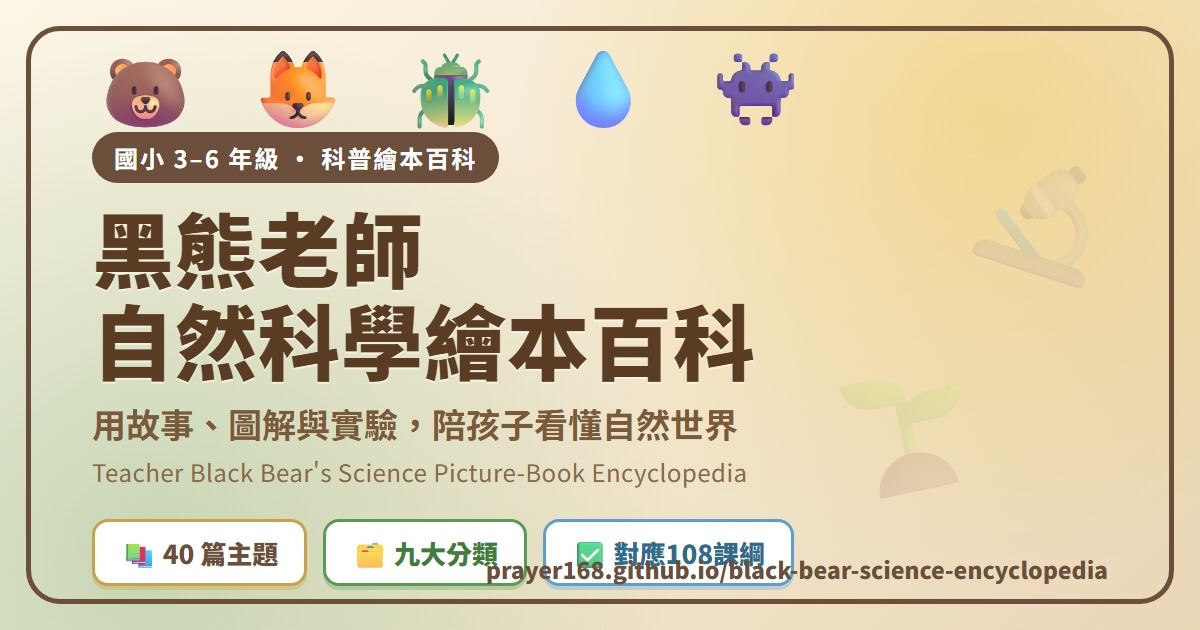
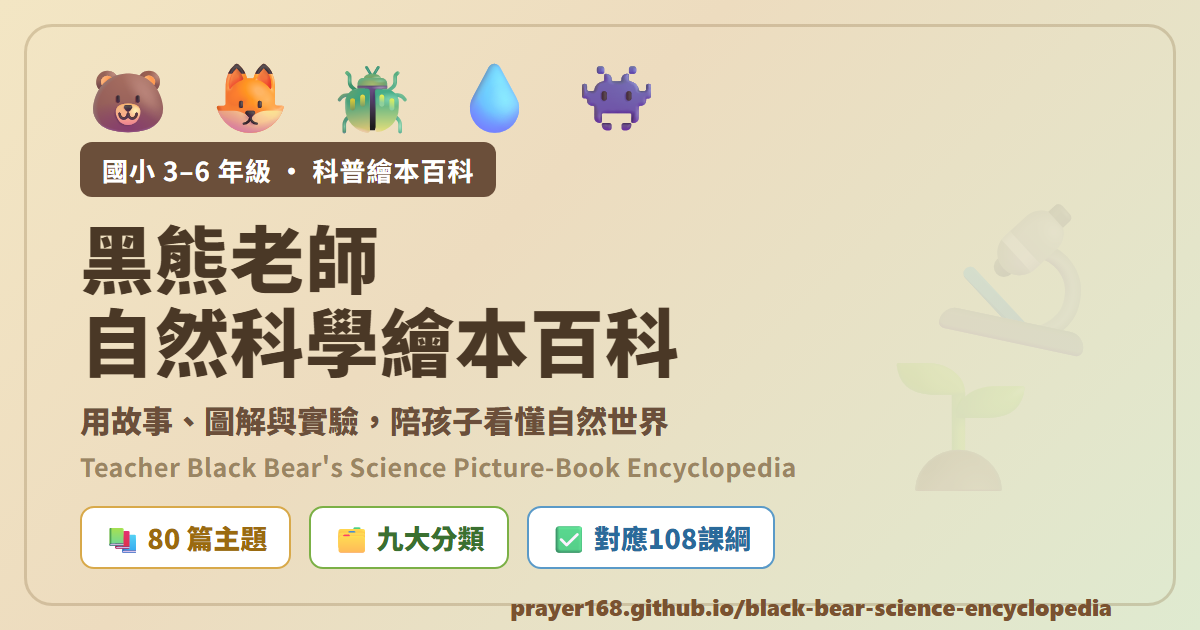
更新臉書宣傳文與 og 縮圖：全站 80/80 完成（40→80 篇）

diff --git a/share/facebook-post.html b/share/facebook-post.html
@@ -70,11 +70,11 @@
         <span class="tag">中文</span>
         <button class="copy-one small" data-target="zh">複製</button>
       </div>
-      <div id="zh" class="post">🐻📚 誰說自然科學一定要死背？讓黑熊老師用「繪本＋實驗」，把整個大自然讀成故事！
+      <div id="zh" class="post">🐻📚 80 篇全部完工！誰說自然科學一定要死背？讓黑熊老師用「繪本＋實驗」，把整個大自然讀成故事！
 
-我做了一套免費的《黑熊老師自然科學繪本百科》——
-國小三～六年級、40 篇主題、九大分類一次收藏，
-每一篇都是一個小故事，翻開就想一直往下看！📖✨
+我把《黑熊老師自然科學繪本百科》一路寫到完結——
+國小三～六年級、每個年級各 20 篇、共 80 篇主題、九大分類全收錄，
+每一篇都是一個小故事，翻開就想一直往下看！📖✨ 而且完全免費。
 
 ✨ 你會遇到這五隻好朋友：
 🐻 黑熊老師：溫暖又幽默，專門破解你的迷思
@@ -88,9 +88,10 @@
 🧠 核心概念分「小學生／高年級／國中銜接」三層，一篇讀到會
 🖼️ 全手繪 SVG 圖解＋6 頁繪本分鏡，看圖就懂
 🧪 小實驗（操縱／應變／控制變因都寫好）、迷思破解、小測驗、教師補充，一次到位
-✅ 對應 108 課綱學習內容代碼，老師直接帶班超放心
+✅ 每篇都對應 108 課綱學習內容代碼（逐一查證、不亂湊），老師直接帶班超放心
 
-從「昆蟲為什麼有六隻腳」「水往哪裡去」「食物鏈是誰吃誰」到「科學家怎麼想」——
+主題從「昆蟲為什麼有六隻腳」「植物喝水的祕密」「回聲與超音波」「指北針與地球大磁鐵」，
+到「地球發燒了：溫室效應」「風光水來發電：再生能源」「為什麼我像爸爸又像媽媽？遺傳」——
 在家自學、上課補充、課前預習、課後複習，打開瀏覽器就能讀，免安裝、免費！
 
 👉 立刻翻開：https://prayer168.github.io/black-bear-science-encyclopedia/
@@ -105,9 +106,9 @@
         <span class="tag">English</span>
         <button class="copy-one small" data-target="en">Copy</button>
       </div>
-      <div id="en" class="post">🐻📚 Who says science has to be memorized? Teacher Black Bear turns the whole natural world into a storybook!
+      <div id="en" class="post">🐻📚 All 80 chapters are done! Who says science has to be memorized? Teacher Black Bear turns the whole natural world into a storybook.
 
-I built a free interactive encyclopedia for grades 3–6: 40 topics across 9 science themes, and every single one opens with a story you actually want to finish. 📖✨
+I just finished a free interactive encyclopedia for grades 3–6: 80 topics — 20 per grade level — across 9 science themes, and every single one opens with a story you actually want to finish. 📖✨
 
 ✨ Meet the five friends who guide the way:
 🐻 Teacher Black Bear — warm, funny, and a myth-busting machine
@@ -121,9 +122,9 @@ I built a free interactive encyclopedia for grades 3–6: 40 topics across 9 sci
 🧠 Concepts in 3 layers — kid-friendly, advanced, and a bridge to junior high
 🖼️ All hand-drawn SVG diagrams + a 6-panel storyboard
 🧪 A real experiment (variables spelled out), myth-busting, a quiz, and teacher notes
-✅ Mapped to Taiwan's 108 national curriculum codes
+✅ Every chapter mapped to Taiwan's 108 national curriculum codes (each one fact-checked, never faked)
 
-From "Why do insects have six legs?" to "Where does water go?", "Who eats whom in a food chain?", and "How do scientists actually think?" — perfect for homeschooling, classroom use, or review. No install, completely free.
+Topics range from "Why do insects have six legs?" and "How do plants drink water?" to "Echoes & ultrasound," "Why a compass points north," "Greenhouse effect & climate change," "Renewable energy," and "Why do I look like both my parents? (heredity)" — perfect for homeschooling, classroom use, or review. No install, completely free.
 
 👉 Start reading: https://prayer168.github.io/black-bear-science-encyclopedia/
 

diff --git a/index.html b/index.html
@@ -7,7 +7,7 @@
 <meta name="description" content="用故事、圖解與實驗，陪孩子看懂自然世界。國小三到六年級自然科學科普繪本百科。">
 <meta property="og:type" content="website">
 <meta property="og:title" content="黑熊老師自然科學繪本百科">
-<meta property="og:description" content="用故事、圖解與實驗，陪孩子看懂自然世界。國小三～六年級、40 篇主題、九大分類、對應108課綱。">
+<meta property="og:description" content="用故事、圖解與實驗，陪孩子看懂自然世界。國小三～六年級、80 篇主題、九大分類、對應108課綱。">
 <meta property="og:url" content="https://prayer168.github.io/black-bear-science-encyclopedia/">
 <meta property="og:image" content="https://prayer168.github.io/black-bear-science-encyclopedia/assets/images/og-cover.png">
 <meta property="og:image:width" content="1200">